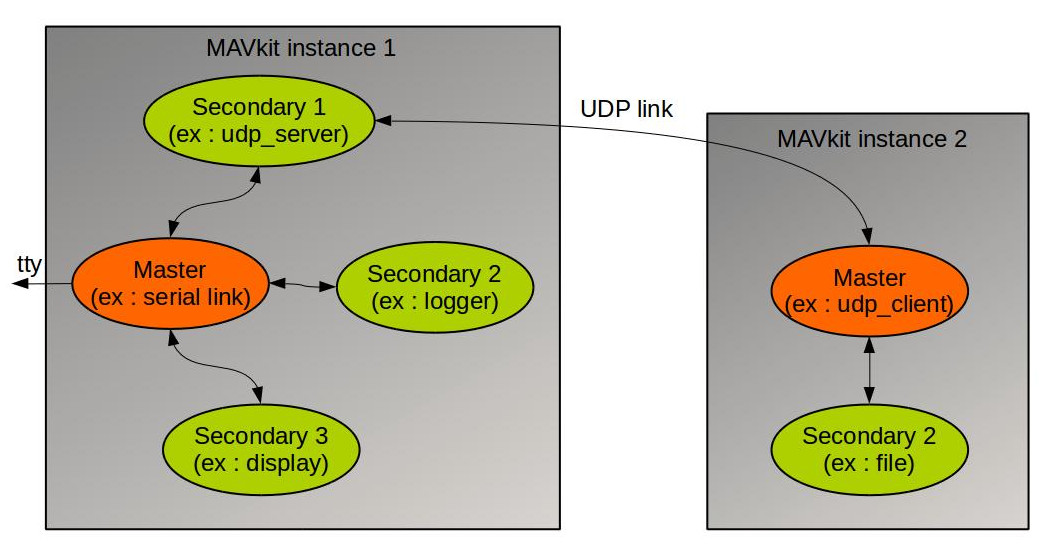
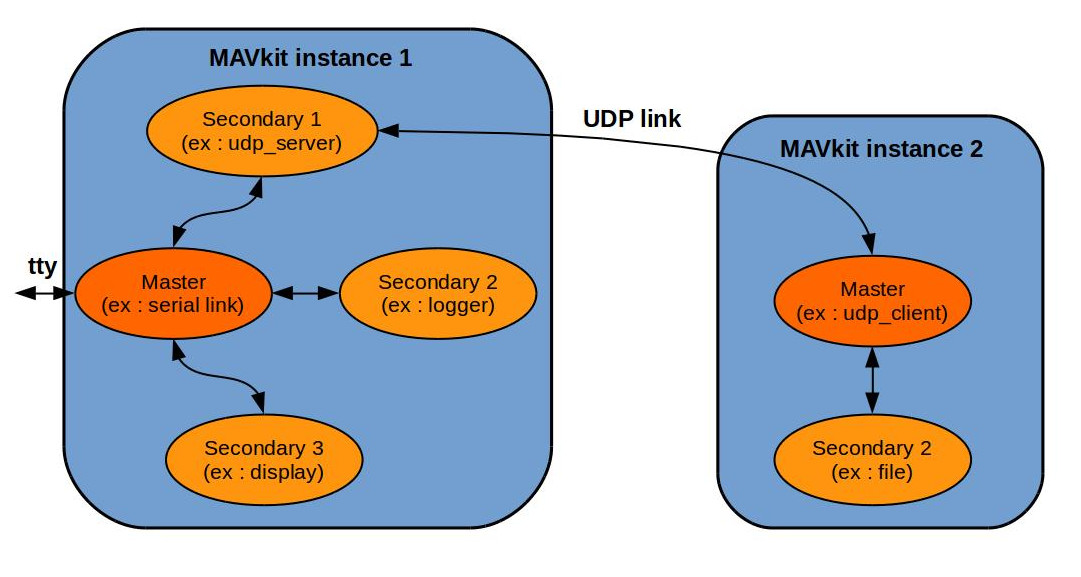
Update Readme and schema

diff --git a/Readme.md b/Readme.md
@@ -1,6 +1,28 @@
 # MAVKit
 
-## build
+## Introduction
+
+MAVkit is a C++ toolbox for **MAVLink 2.0** in command line.
+
+ It can **display**, **redirect**, **broadcast**, **log**, **replay** data from and to different types of interface (**Serial**, **UDP**, **TCP**, **File**).
+
+MAVkit is also a framework for MAVLink programmers.
+It is built on a modular architecture where each module can be used independently inside other projects.
+In that case, it provides a simple MAVLink block that can be replaced according to communication hardware.
+
+Designed with low latency in mind, it keeps IO buffers safe from overflows (leading to data loss) by using a dual thread processing loop per interface (fast read and process).
+
+## Build
+
+### Submodule update
+>Note : Be sure to use the following recursive command, there is two submodule levels in mavlink.
+
+```Shell
+git submodule update --init --recursive
+```
+
+### Compilation
+***Dependencies*** : Boost + MAVLink usual dependencies
 
 ```shell
 mkdir build
@@ -11,22 +33,23 @@ make
 
 ## How it works ?
 
-Mavkit is organised in modules called interfaces. An interface can receive and send messages to other interfaces in a fully concurrent way.
+Mavkit is organised in modules called **messengers**. A messenger can receive and send messages to others in a fully concurrent way.
 
-Each interface can be either a serial link, an UDP socket, a log file,...
+Each messenger can be either a serial link, an UDP socket, a log file,...
 
-you have to specify at least one interface that will be called ***master interface***.
-This particular one will be duplex connected to every other interface created then.
-On the contrary, secondary interfaces won't be connected between them.
+you have to specify at least one messenger (the first) for the role of **master**.
+This particular one will be duplex connected to every other messenger created then.
+On the contrary, secondary messengers won't be connected between them.
 
-Here is an example of two mavkit instances, composed of respectively 4 and 2 interfaces and linked between them through UDP. Note that masters are connected to all other interfaces, while those are not linked between them.
+Here is an example of two MAVkit instances, composed of respectively 4 and 2 messengers and linked between them through UDP. Note that masters are connected to all other messengers, while those are not linked between them.
 
 <img src="/docs/mavkit_interfaces.jpg" />
 
-## how to use it ?
+## How to use it ?
 
-Once you've built it, you can run MAVKit from command line by specifying interfaces one after the other.
-The first interface will take on the role of master.
+Once you've built it, you can run MAVKit from command line by specifying messengers one after the other.
+
+The first messenger will take on the role of master.
 
 ### Serial
 ***Arguments :***
@@ -86,7 +109,9 @@ Output messages to stdout.
 `--display`
 
 ---
-You can combine almost as many interfaces as you want with the power of command line.
+You can combine almost as many messengers as you want in command line.
+
+Example :
 
 ```Shell
 ./mavkit --tty /dev/ttyACM0 57600 --upd_server 14550 --display --log --tcp_client 127.0.0.1 14551
